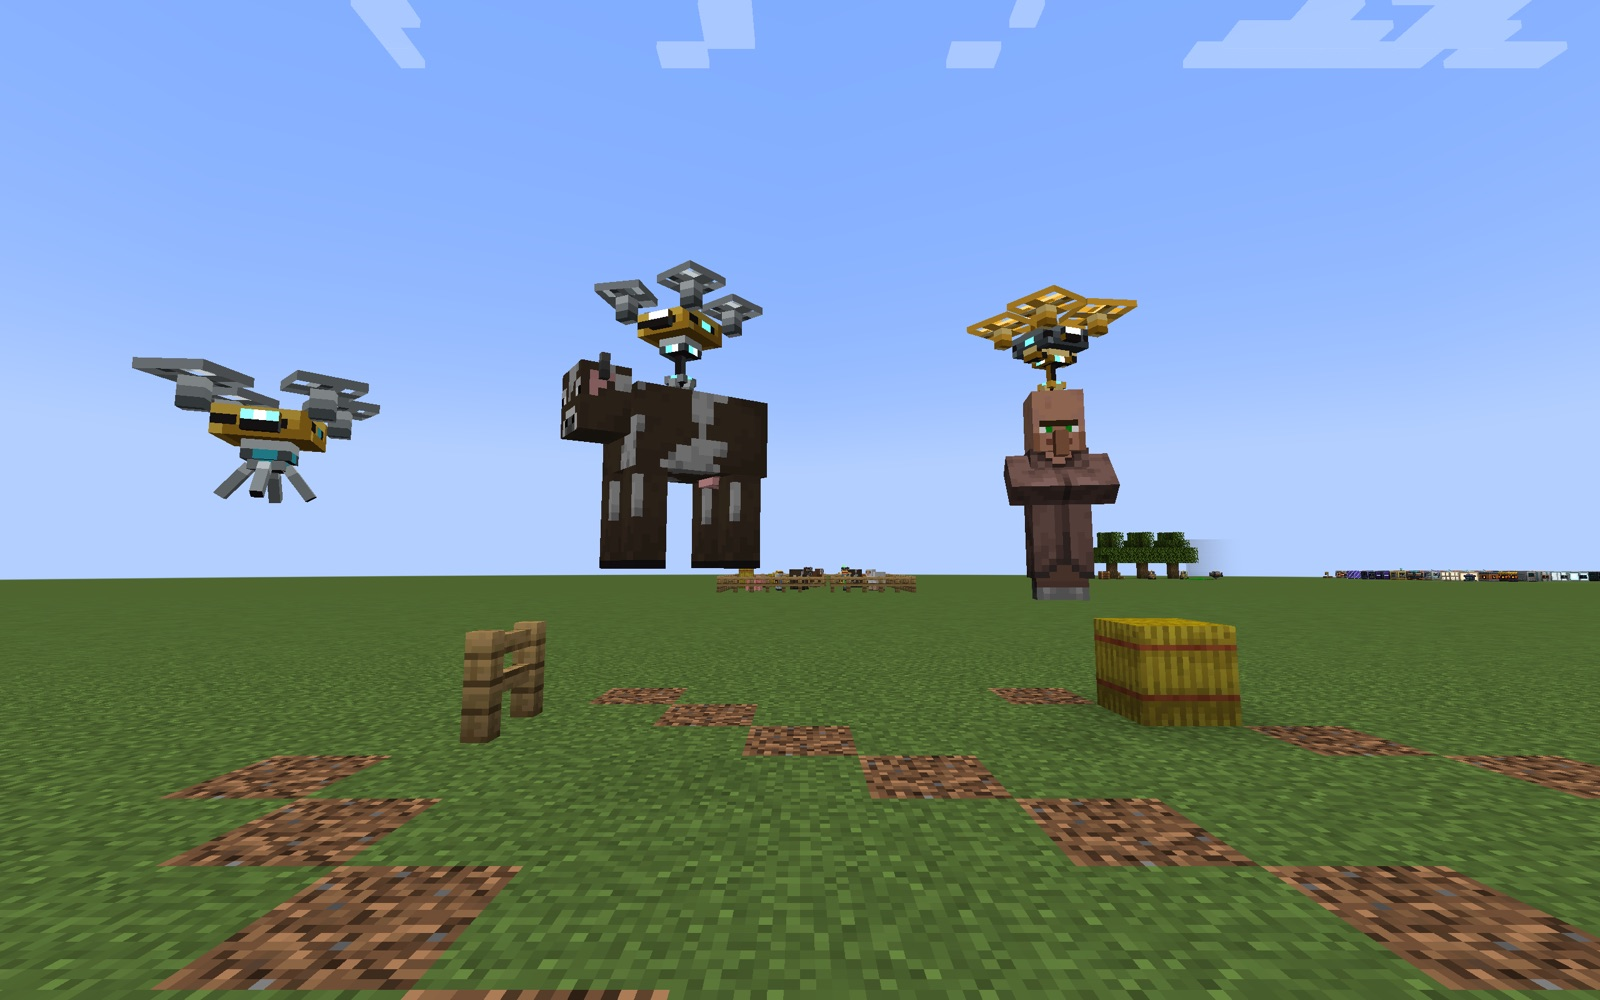
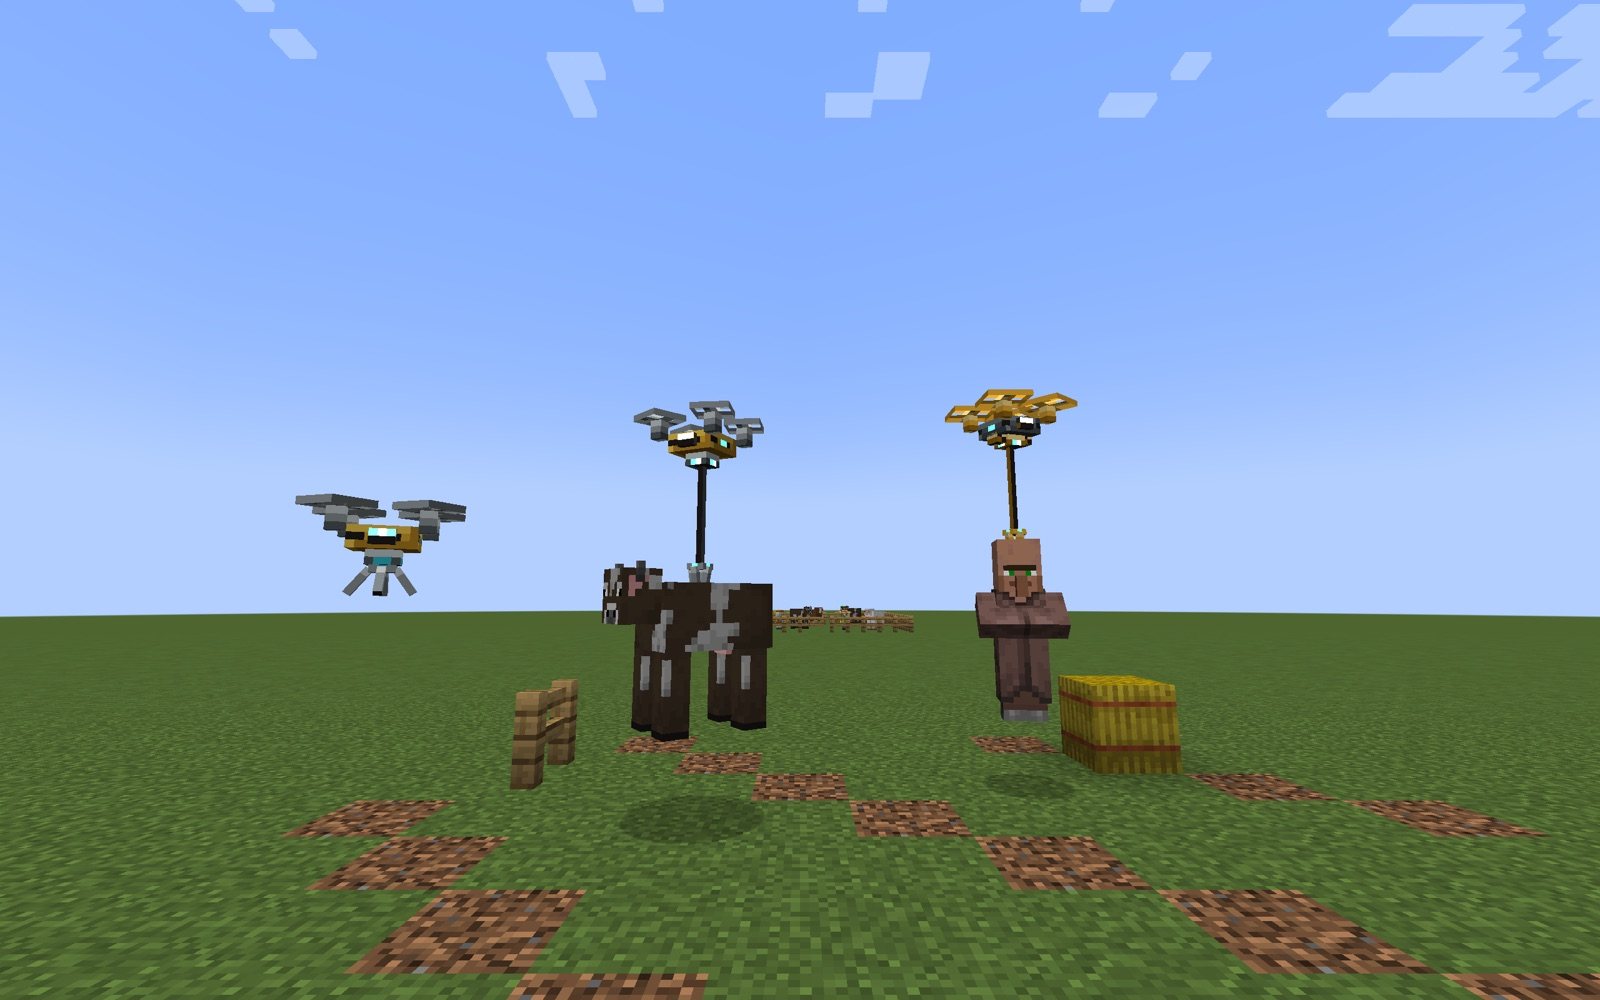
Hang the Hauler Drone's mob on a visible cable below it

diff --git a/src/main/java/com/arno/robotica/drones/entity/HaulerDrone.java b/src/main/java/com/arno/robotica/drones/entity/HaulerDrone.java
@@ -14,6 +14,9 @@ import net.minecraft.core.particles.ParticleTypes;
 import net.minecraft.core.registries.Registries;
 import net.minecraft.nbt.CompoundTag;
 import net.minecraft.network.chat.Component;
+import net.minecraft.network.syncher.EntityDataAccessor;
+import net.minecraft.network.syncher.EntityDataSerializers;
+import net.minecraft.network.syncher.SynchedEntityData;
 import net.minecraft.server.level.ServerLevel;
 import net.minecraft.server.level.ServerPlayer;
 import net.minecraft.sounds.SoundSource;
@@ -57,8 +60,10 @@ public class HaulerDrone extends DroneBase {
     public static final float MK1_WIDTH = 1.5F, MK1_HEIGHT = 2.0F, MK2_WIDTH = 2.0F, MK2_HEIGHT = 3.0F;
     /** Beyond this distance (or in another dimension) the drone hovers in place until the owner comes back. */
     public static final double LEASH_RANGE = 64.0;
-    /** Gap between the drone's feet and the top of the carried mob. */
-    private static final double HANG_GAP = 0.05;
+    /** Cable length: gap between the drone's feet and the top of the carried mob. Shorter where there is no room, then let out. */
+    public static final float HANG_GAP = 0.85F, MIN_GAP = 0.05F;
+    private static final float GAP_STEP = 0.03F;
+    private static final EntityDataAccessor<Float> DATA_GAP = SynchedEntityData.defineId(HaulerDrone.class, EntityDataSerializers.FLOAT);
 
     private boolean lowNotified;
     /** Ticks spent carrying with an empty buffer; the drone hovers and looks for a safe spot every second. */
@@ -76,6 +81,26 @@ public class HaulerDrone extends DroneBase {
 
     public HaulerDrone(EntityType<? extends HaulerDrone> type, Level level) {
         super(type, level);
+    }
+
+    @Override
+    protected void defineSynchedData(SynchedEntityData.Builder builder) {
+        super.defineSynchedData(builder);
+        builder.define(DATA_GAP, HANG_GAP);
+    }
+
+    /** Current cable length in blocks. */
+    public float gap() {
+        return entityData.get(DATA_GAP);
+    }
+
+    private void setGap(float gap) {
+        entityData.set(DATA_GAP, Mth.clamp(gap, MIN_GAP, HANG_GAP));
+    }
+
+    @Override
+    public AABB getBoundingBoxForCulling() {
+        return super.getBoundingBoxForCulling().expandTowards(0.0, -gap() - 0.5, 0.0);
     }
 
     public static AttributeSupplier.Builder createAttributes() {
@@ -166,8 +191,17 @@ public class HaulerDrone extends DroneBase {
         HaulerDrone drone = no == null ? DronesRegistry.HAULER_DRONE_ENTITY.get().create(level) : null;
         if (no == null && drone == null) no = msg("hauler.cant");
         if (drone != null) {
-            drone.moveTo(target.getX(), target.getY() + target.getBbHeight() + HANG_GAP, target.getZ(), player.getYRot(), 0.0F);
-            if (!level.noCollision(drone, drone.getBoundingBox())) no = msg("hauler.no_room");
+            // longest cable that fits above the mob; it is let out later where there is room
+            boolean room = false;
+            for (float gap = HANG_GAP; !room && gap >= MIN_GAP - 1.0E-4F; gap -= 0.15F) {
+                float g = Math.max(MIN_GAP, gap);
+                drone.moveTo(target.getX(), target.getY() + target.getBbHeight() + g, target.getZ(), player.getYRot(), 0.0F);
+                if (level.noCollision(drone, drone.getBoundingBox())) {
+                    drone.setGap(g);
+                    room = true;
+                }
+            }
+            if (!room) no = msg("hauler.no_room");
         }
         if (no != null) {
             refuse(player, target, no);
@@ -303,12 +337,12 @@ public class HaulerDrone extends DroneBase {
 
     @Override
     protected void positionRider(Entity passenger, Entity.MoveFunction callback) {
-        callback.accept(passenger, getX(), getY() - passenger.getBbHeight() - HANG_GAP, getZ());
+        callback.accept(passenger, getX(), getY() - passenger.getBbHeight() - gap(), getZ());
     }
 
     @Override
     public Vec3 getPassengerRidingPosition(Entity passenger) {
-        return new Vec3(getX(), getY() - passenger.getBbHeight() - HANG_GAP, getZ());
+        return new Vec3(getX(), getY() - passenger.getBbHeight() - gap(), getZ());
     }
 
     @Override
@@ -486,6 +520,11 @@ public class HaulerDrone extends DroneBase {
             } else {
                 emptyTicks = 0;
                 ticksCarried++;
+                if (gap() < HANG_GAP) {
+                    float next = Math.min(HANG_GAP, gap() + GAP_STEP);
+                    AABB box = mob.getDimensions(mob.getPose()).makeBoundingBox(new Vec3(getX(), getY() - mob.getBbHeight() - next, getZ()));
+                    if (sl.noCollision(mob, box)) setGap(next);
+                }
                 if ((tickCount + getId()) % 40 == 0) CoreSounds.play(this, CoreSounds.HAULER_WINCH, SoundSource.NEUTRAL, 0.6F, 1.0F);
                 if (tickCount % 8 == 0) {
                     sl.sendParticles(ParticleTypes.END_ROD, getX(), getY() - 0.05, getZ(), 1, 0.08, 0.02, 0.08, 0.0);
@@ -510,7 +549,7 @@ public class HaulerDrone extends DroneBase {
             setDeltaMovement(getDeltaMovement().scale(0.5));
             return;
         }
-        double up = Math.max(1.9, (mob != null ? mob.getBbHeight() : 0.0) + 1.0);
+        double up = Math.max(1.9, (mob != null ? mob.getBbHeight() + gap() - MIN_GAP : 0.0) + 1.0);
         followOwner(o, up, flySpeed());
     }
 
@@ -527,7 +566,7 @@ public class HaulerDrone extends DroneBase {
             double y = target.y + (i == 0 ? 0 : random.nextInt(3) - 1);
             double z = target.z + (i == 0 ? 0 : random.nextInt(5) - 2);
             AABB self = getBoundingBox().move(x - getX(), y - getY(), z - getZ());
-            AABB hang = mob.getDimensions(mob.getPose()).makeBoundingBox(new Vec3(x, y - mob.getBbHeight() - HANG_GAP, z));
+            AABB hang = mob.getDimensions(mob.getPose()).makeBoundingBox(new Vec3(x, y - mob.getBbHeight() - gap(), z));
             if (level().noCollision(this, self) && level().noCollision(mob, hang)) {
                 navigation.stop();
                 setPos(x, y, z);
@@ -541,6 +580,18 @@ public class HaulerDrone extends DroneBase {
 
     @Override
     protected void writeSettings(CompoundTag tag, HolderLookup.Provider registries) {
+    }
+
+    @Override
+    public void addAdditionalSaveData(CompoundTag tag) {
+        super.addAdditionalSaveData(tag);
+        tag.putFloat("Gap", gap());
+    }
+
+    @Override
+    public void readAdditionalSaveData(CompoundTag tag) {
+        super.readAdditionalSaveData(tag);
+        if (tag.contains("Gap")) setGap(tag.getFloat("Gap"));
     }
 
     @Override

diff --git a/src/main/java/com/arno/robotica/codex/client/dev/Showcase.java b/src/main/java/com/arno/robotica/codex/client/dev/Showcase.java
@@ -991,15 +991,15 @@ public final class Showcase {
             level.setBlock(HAUL.offset(3, 0, -2), Blocks.HAY_BLOCK.defaultBlockState(), 3);
             level.setBlock(HAUL.offset(-4, 0, -2), Blocks.OAK_FENCE.defaultBlockState(), 3);
             level.setBlock(HAUL.offset(-4, 0, -1), Blocks.OAK_FENCE.defaultBlockState(), 3);
-            haul(sp, level, EntityType.COW, 1, HAUL.getX() - 1.5, HAUL.getZ() + 0.5, Y + 1.6, 25.0F);
-            haul(sp, level, EntityType.VILLAGER, 2, HAUL.getX() + 2.0, HAUL.getZ() - 0.5, Y + 1.3, -20.0F);
+            haul(sp, level, EntityType.COW, 1, HAUL.getX() - 1.5, HAUL.getZ() + 0.5, Y + 0.8, 25.0F);
+            haul(sp, level, EntityType.VILLAGER, 2, HAUL.getX() + 2.0, HAUL.getZ() - 0.5, Y + 0.7, -20.0F);
             var empty = spawn(level, com.arno.robotica.drones.DronesRegistry.HAULER_DRONE_ENTITY.get(), HAUL.getX() - 4.0, HAUL.getZ() + 1.5, Y + 2.0);
             if (empty != null) {
                 empty.setOwner(sp);
                 face(empty, HAUL.getX(), HAUL.getZ() + 9);
             }
         }));
-        camera(HAUL.getX() - 0.5, Y, HAUL.getZ() + 5.6, 180, -6);
+        camera(HAUL.getX() - 0.5, Y + 0.4, HAUL.getZ() + 6.8, 180, -9);
         step(20, () -> {});
         shot("hauler_drone");
     }
@@ -1018,7 +1018,7 @@ public final class Showcase {
     private static void haul(ServerPlayer sp, ServerLevel level, EntityType<? extends net.minecraft.world.entity.Mob> type, int tier, double x, double z,
                              double feetY, float yaw) {
         var mob = spawn(level, type, x, z, feetY);
-        var drone = spawn(level, com.arno.robotica.drones.DronesRegistry.HAULER_DRONE_ENTITY.get(), x, z, feetY + (mob != null ? mob.getBbHeight() : 1.0) + 0.05);
+        var drone = spawn(level, com.arno.robotica.drones.DronesRegistry.HAULER_DRONE_ENTITY.get(), x, z, feetY + (mob != null ? mob.getBbHeight() : 1.0) + com.arno.robotica.drones.entity.HaulerDrone.HANG_GAP);
         if (mob == null || drone == null) return;
         drone.setTier(tier);
         drone.setOwner(sp);

diff --git a/src/main/java/com/arno/robotica/drones/client/HaulerDroneModel.java b/src/main/java/com/arno/robotica/drones/client/HaulerDroneModel.java
@@ -24,7 +24,7 @@ public class HaulerDroneModel extends EntityModel<HaulerDrone> {
     /** Prong offsets (x, z) around the claw collar: north, south, west, east. */
     private static final float[][] PRONGS = {{0.0F, -1.5F}, {0.0F, 1.5F}, {-1.5F, 0.0F}, {1.5F, 0.0F}};
     private static final float ROOT_Y = 16.0F;
-    /** Claw collar height (relative to the root) when reeled in and when lowered onto the mob. */
+    /** Claw collar height (relative to the root) when reeled in, and when lowered onto a mob that hangs right under the feet. */
     private static final float CLAW_IN = 3.0F, CLAW_OUT = 6.0F;
 
     private final ModelPart root;
@@ -117,13 +117,19 @@ public class HaulerDroneModel extends EntityModel<HaulerDrone> {
         antenna.xRot = -tiltX * 0.8F + Mth.sin(ageInTicks * 0.2F) * 0.04F;
         antenna.zRot = -tiltZ * 0.8F;
 
-        float clawY = Mth.lerp(winch, CLAW_IN, CLAW_OUT - bob);
-        claw.y = clawY;
-        claw.xRot = -tiltX;
-        claw.zRot = -tiltZ - sway;
-        float length = clawY - CLAW_IN;
+        // the cable hangs plumb from the hub while the body tilts; the claw sits on the mob's head
+        float out = CLAW_OUT + (drone.gap() - HaulerDrone.MIN_GAP) * 16.0F;
+        float length = Mth.lerp(winch, 0.0F, out - CLAW_IN - bob);
+        float rx = -tiltX, rz = -tiltZ - sway;
+        cable.xRot = rx;
+        cable.zRot = rz;
         cable.visible = length > 0.05F;
         cable.yScale = Math.max(0.01F, length);
+        claw.x = -length * Mth.sin(rz);
+        claw.y = CLAW_IN + length * Mth.cos(rx) * Mth.cos(rz);
+        claw.z = length * Mth.sin(rx);
+        claw.xRot = rx;
+        claw.zRot = rz;
         // positive flare spreads the tips outward; closed they bite slightly inward
         float flare = -0.18F + 0.78F * open;
         prongs[0].xRot = -flare;

diff --git a/src/main/java/com/arno/robotica/drones/test/DronesGameTests.java b/src/main/java/com/arno/robotica/drones/test/DronesGameTests.java
@@ -592,7 +592,7 @@ public class DronesGameTests {
     @GameTest(template = "drones_arena", batch = "dronesHauler5", timeoutTicks = 200)
     public static void haulerUsesEnergyOnlyWhileCarrying(GameTestHelper helper) {
         floor(helper);
-        HaulerDrone drone = hauler(helper, 1, 3, 4, 3);
+        HaulerDrone drone = hauler(helper, 1, 3, 5, 3);
         drone.setEnergy(10_000);
         var cow = helper.spawn(EntityType.COW, p(3, 1, 3));
         int[] start = new int[1];

diff --git a/docs/DESIGN.md b/docs/DESIGN.md
@@ -534,6 +534,8 @@ Drone digs where you look; sneak + key calls all drones back.
   highest safe floor below (lava and dangerous blocks skipped, water surface allowed). Death, pick-up (sneak-right-click) and removal release it the same way.
 - Out of FE: it stops following and hovers in place, still carrying (no FE used), checks once a second for a safe floor below
   and sets the mob down there. A charge or the owner's release ends the wait.
+- Cable: the mob hangs 0.85 blocks below the drone (shorter when there is no room above the mob at capture, let out
+  once there is room); the follow height grows with it.
 - Looks and sounds: a cable lowers the claw onto the mob and reels it back in when empty; the body tilts with speed, more
   with a load, and its lights glow brighter while carrying. Mk2: bigger rotors, side winch drums, antenna. Grab, release
   and winch sounds, an error beep on a refused mob; sparks on capture, a puff where the mob is set down.
